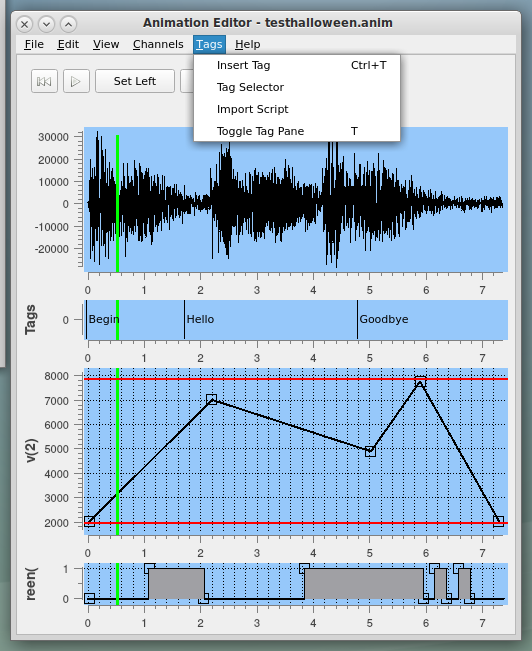
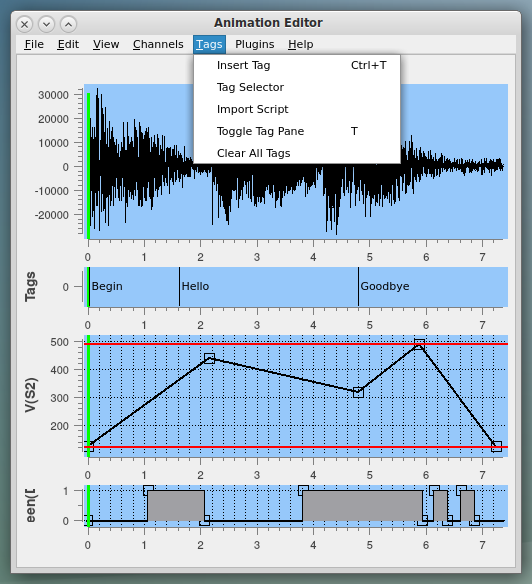
Created tags from phoneme analysis

diff --git a/docs/Help.md b/docs/Help.md
@@ -335,6 +335,7 @@ the animation and some helpful uses for them.  The Tags menu contains the follow
 + Tag Selector - Brings up a widget for selecting a tag
 + Import Script - Reads a script file and create tags
 + Toggle Tag Pane - Toggle visibility of the Tags pane
++ Clear All Tags - Delete all tags and clear the Tags pane
 
 The Insert Tag (ctrl-T) inserts a tag at the current playback time unless a tag is already located at
 that time.  If the tag may be inserted, a popup prompts for the text for the tag.  Tags may be inserted
@@ -359,8 +360,9 @@ The Import Script function provides the capability of importing a script file co
 contained in the audio.  Each line in the script file becomes an individual tag with the line of text as
 the tag's text.  The tags are spaced by a simple algorithm based on the number of characters so as to
 maybe approximately align with the spoken dialogue but many shifts are generally required for good
-alignment.  Someday these dialogue tags may support a phoneme-based audio generator and channel data
-creation.
+alignment.  
+
+The Phonemes plugin also offers a way to populate the Tags pane.  See the plugin help for more details.
 
 <a name="plugins">
 &nbsp;

diff --git a/plugins/Phonemes.md b/plugins/Phonemes.md
@@ -165,6 +165,18 @@ control channel to generate (which column in the conversion file).  The
 audio file will default to the main audio file of the animation so do not
 forget to select the one that has been processed to the appropriate format
 as described above.
+
+In addition to the audio file and channel type selections, the user may also 
+choose to populate the Tags pane with the words or phonemes recognized by
+the plugin.  If the user selects None, the Tags pane will be unchanged.  If
+the user selects Words, the Tags pane will be cleared and repopulated with
+a tag for each individual word in the audio and located at the time the word
+starts in the audio.  If Phonemes is selected,the Tags pane will be cleared
+and repopulated with a tag for each individual phoneme located at the time
+of the center or maximum of the phoneme.  If the user is not familiar with
+the phonemes, it is likely best to use Words.  The user may then make
+adjustments to the channel(s) where the recognized words are incorrect.
+
 Once the selections have been made, select Run and the selected channels will be
 populated.  Install the control file on the controller and see if it works.
 
